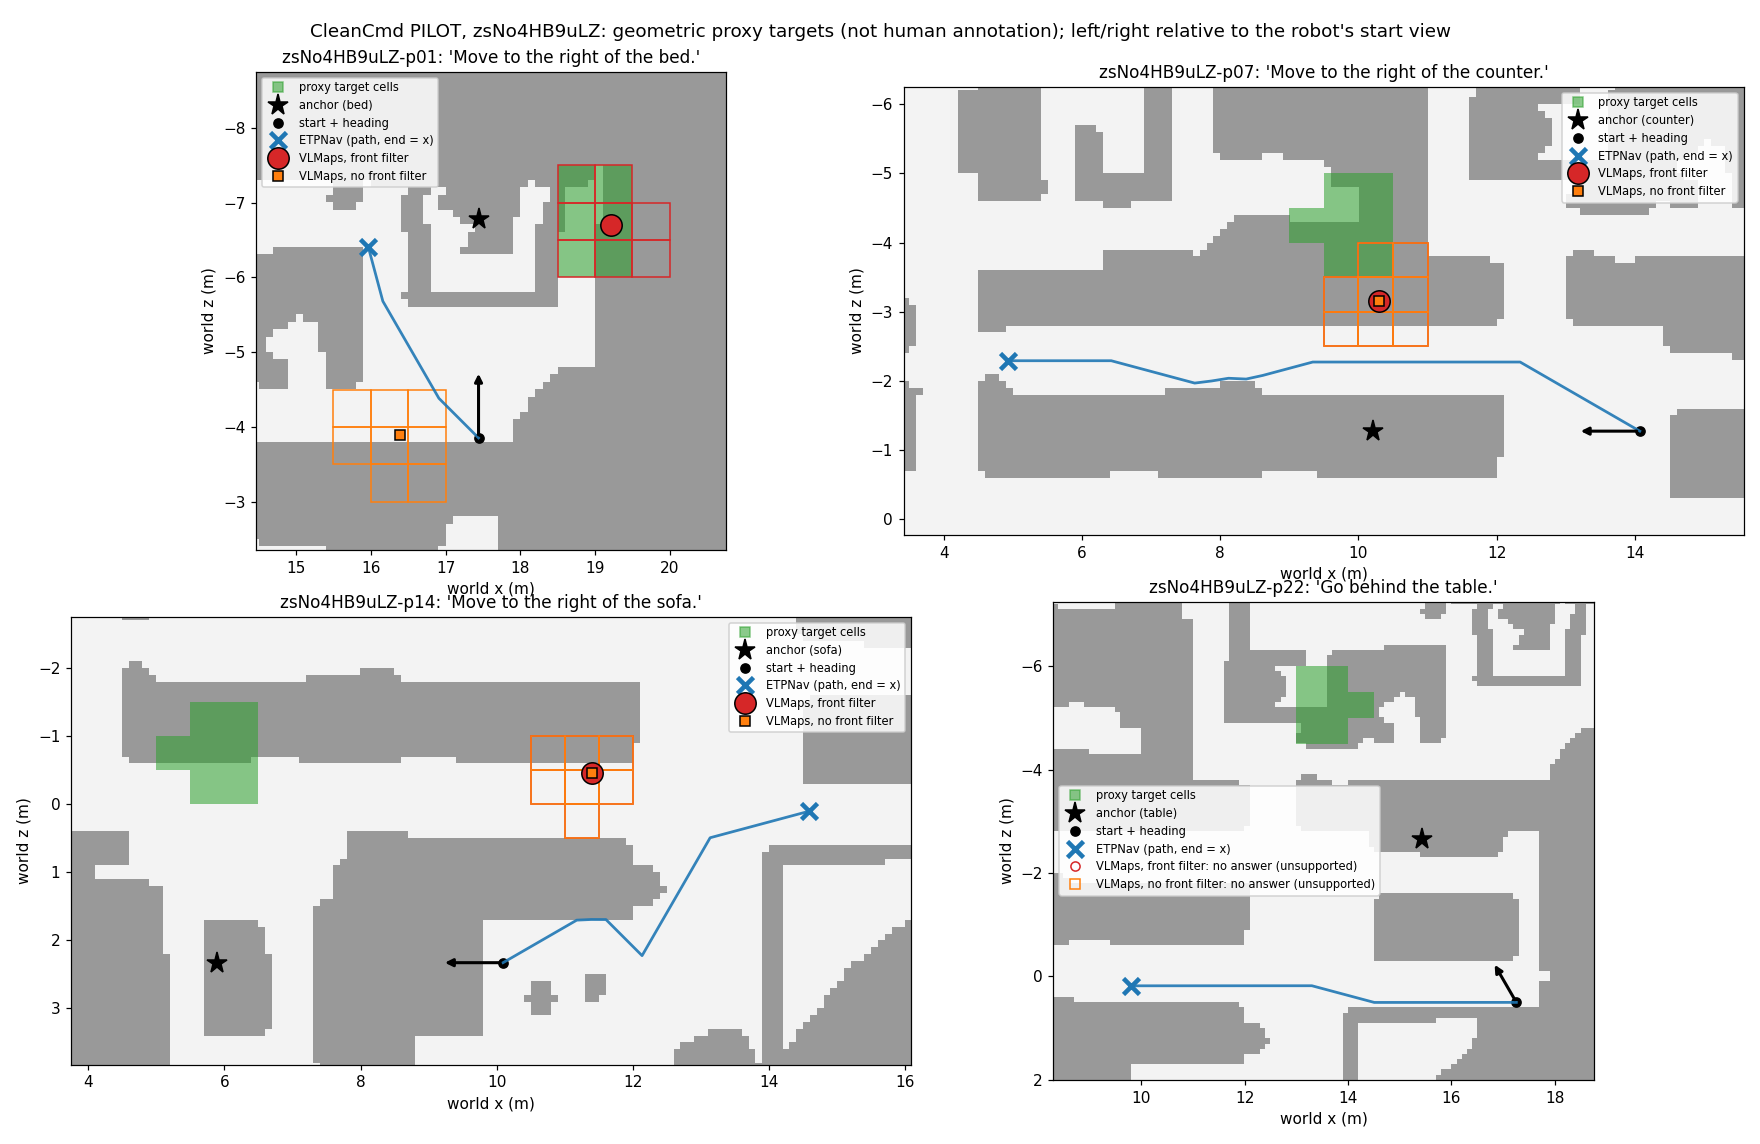
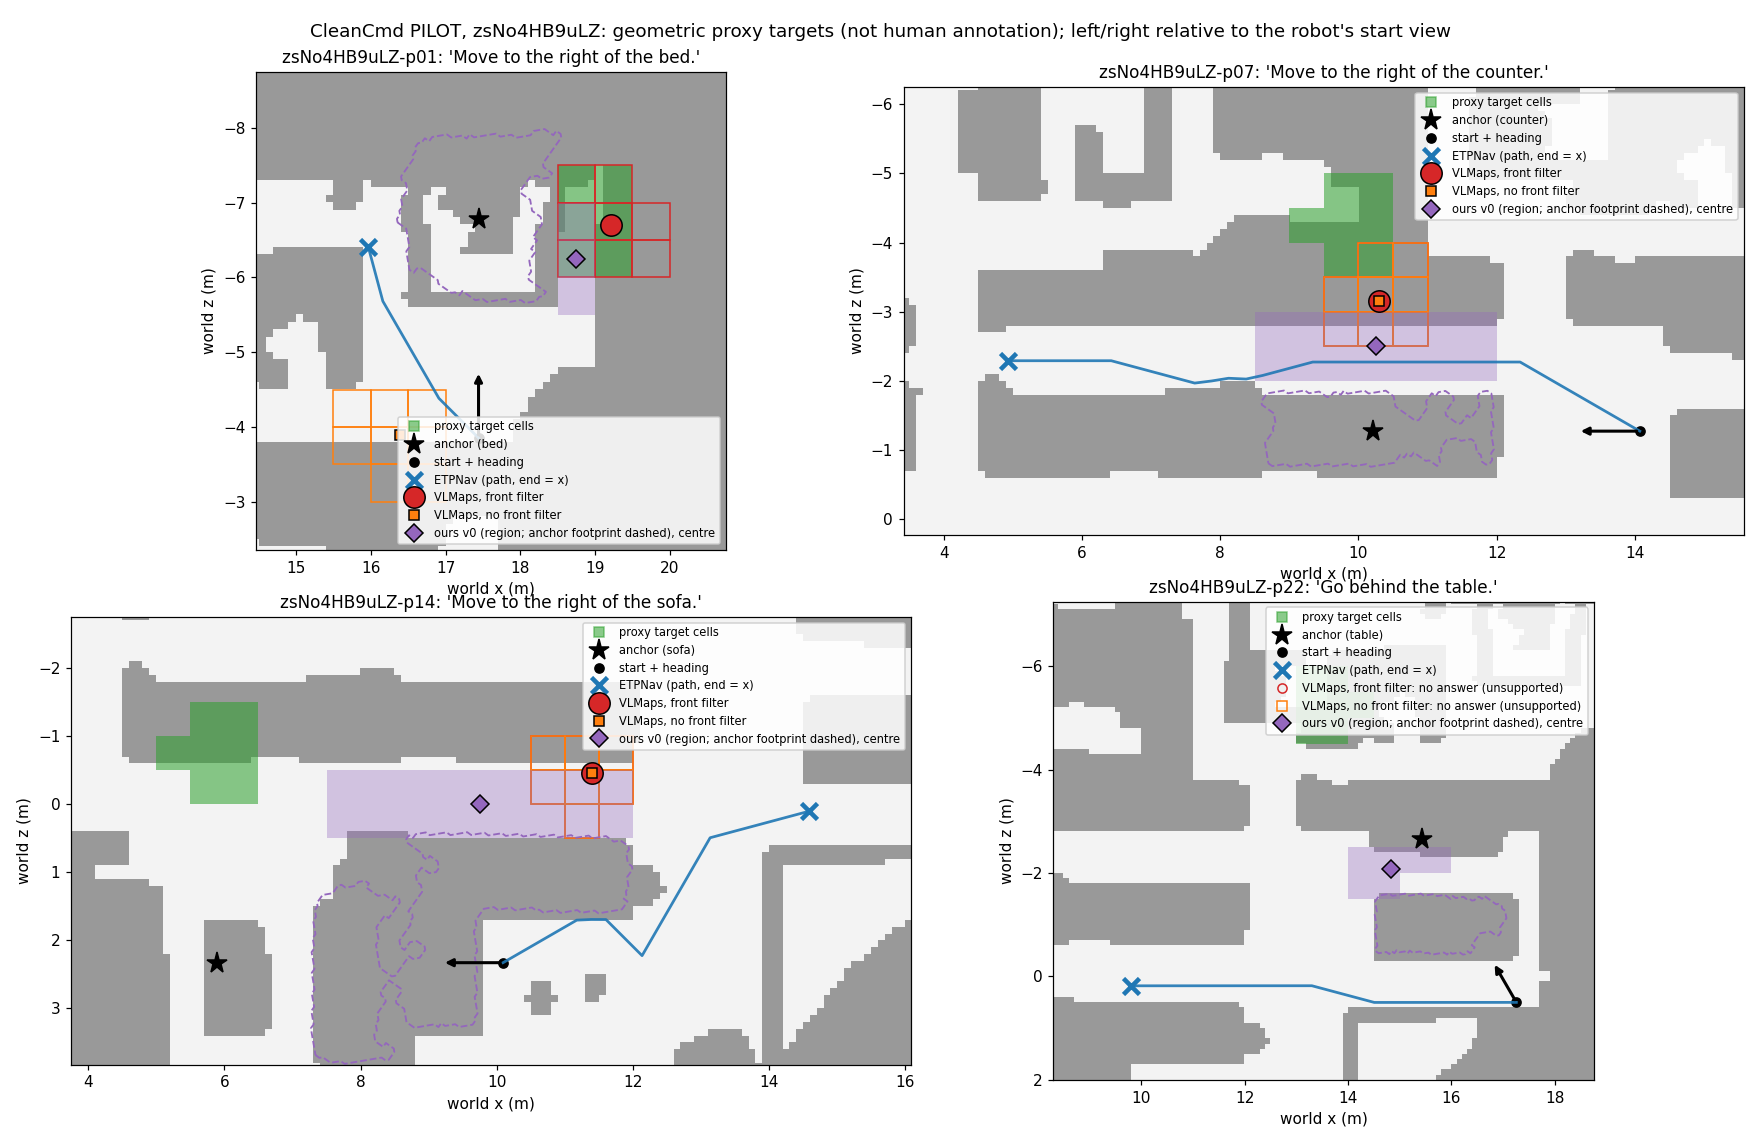
CleanCmd pilot: ours v0 on the 25 zsNo4HB9uLZ probes, scored with and without --free
PILOT on geometric proxy targets (not human annotation); left/right/behind
relative to the robot's start view.

- zsNo4HB9uLZ_pred_ours_v0.jsonl: region answers from
  the1andonlymanojos/vlmaps application/run_cleancmd_ours_v0.py (VLMaps
  anchors, 1.0 m side band / 0.75 m next-to, free cells only).
- zsNo4HB9uLZ_score_output.txt: unmodified cleancmd.score output for all four
  methods, all floor and --free.
- figure and plot script now include ours v0 (region and anchor footprint).

Success, all floor: ETPNav 0, VLMaps 1, VLMaps no filter 0, ours v0 0 (of 25).
Success, --free:    ETPNav 1, VLMaps 1, VLMaps no filter 0, ours v0 1.
All pairwise exact McNemar p = 1.0.

diff --git a/scripts/plot_cleancmd_pilot.py b/scripts/plot_cleancmd_pilot.py
@@ -25,6 +25,7 @@ METHODS = [  # file suffix, label, colour, marker, marker size (filter-on drawn 
     ("etpnav", "ETPNav (path, end = x)", "tab:blue", "x", 11),
     ("vlmaps", "VLMaps, front filter", "tab:red", "o", 14),
     ("vlmaps_nofilter", "VLMaps, no front filter", "tab:orange", "s", 7),
+    ("ours_v0", "ours v0 (region; anchor footprint dashed)", "tab:purple", "D", 8),
 ]
 
 
@@ -95,9 +96,20 @@ def main():
                 for r, c in to_cells(pr, grid):
                     x0, z0 = grid.x0 + c * grid.cell, grid.z0 + r * grid.cell
                     ax.add_patch(plt.Rectangle((x0, z0), grid.cell, grid.cell, fill=False, ec=colour, lw=1))
+            elif pr["kind"] == "region" and pr["cells"]:
+                for r, c in pr["cells"]:
+                    x0, z0 = grid.x0 + c * grid.cell, grid.z0 + r * grid.cell
+                    ax.add_patch(plt.Rectangle((x0, z0), grid.cell, grid.cell, color=colour, alpha=0.35, lw=0))
+                ctr = np.mean([grid.center(r, c) for r, c in pr["cells"]], axis=0)
+                ax.plot(*ctr, marker, color=colour, ms=ms, mec="k", label=label + ", centre")
+                answers.append(ctr)
             else:
-                why = [k for k in ("unsupported", "not_found", "front_filtered") if pr["meta"].get(k)]
+                why = [k for k in ("unsupported", "not_found", "front_filtered") if pr["meta"].get(k)] or ["empty region"]
                 ax.plot([], [], marker, color=colour, mfc="none", label="%s: no answer (%s)" % (label, ",".join(why)))
+            fp = pr.get("meta", {}).get("footprint_xz")
+            if fp:
+                fp = np.array(fp + fp[:1])
+                ax.plot(fp[:, 0], fp[:, 1], "--", color=colour, lw=1.2)
 
         pts = [g["anchor"]["center"]] if g.get("anchor") else []
         pts += [[sx, sz]] + [grid.center(int(r), int(c)) for r, c in g["masks"][0]] + [list(x) for x in answers]
